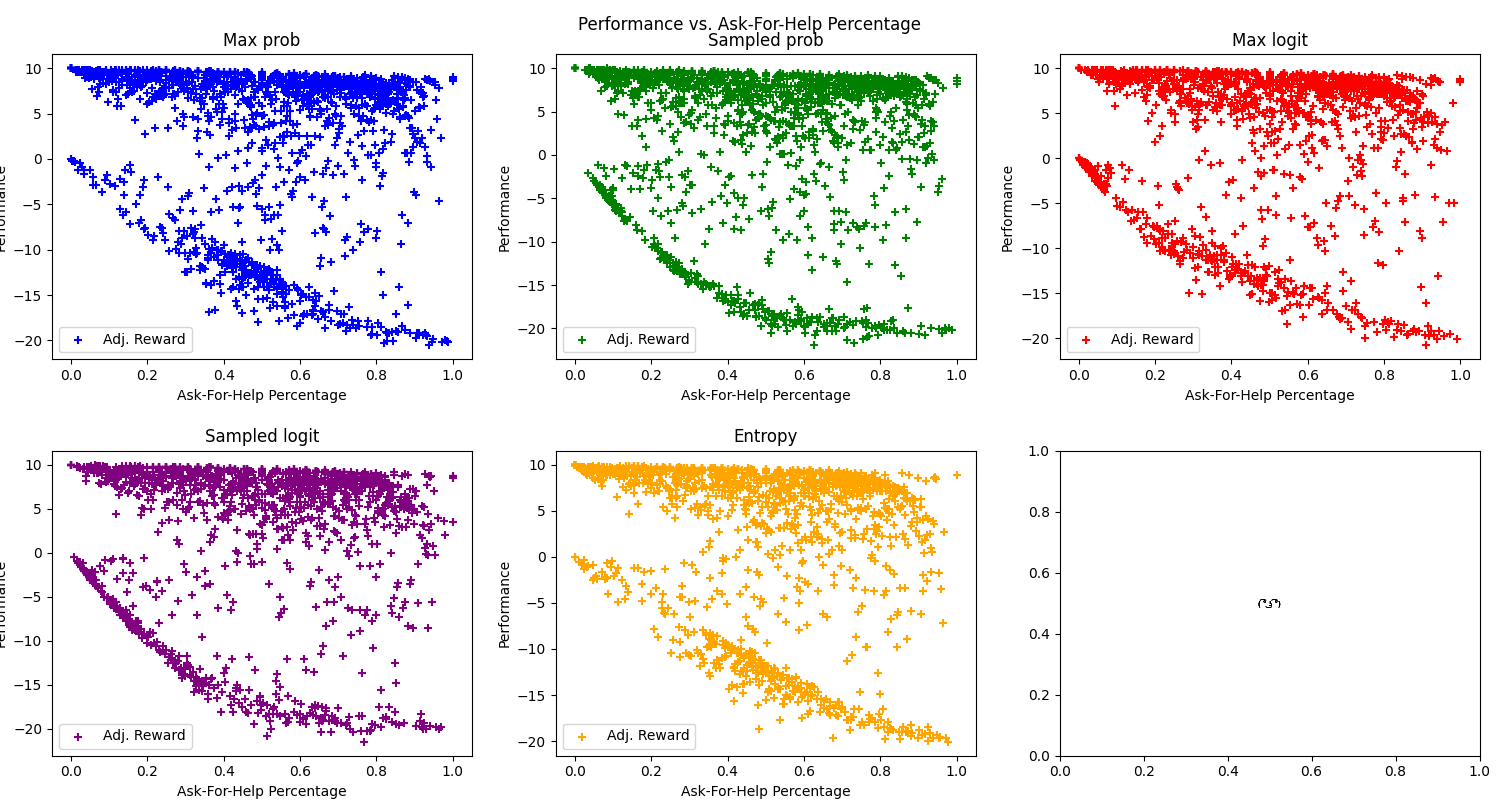
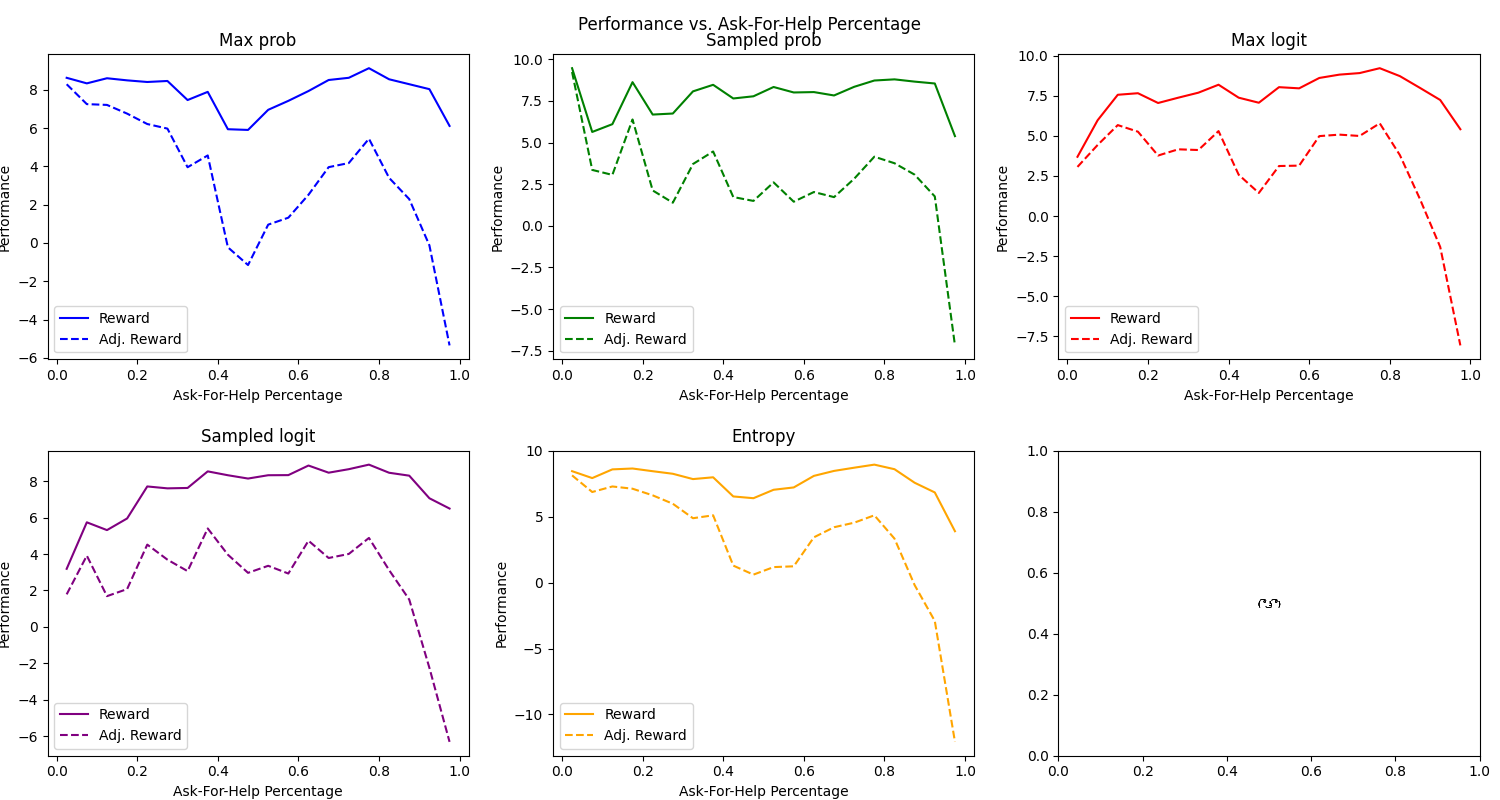
updates

diff --git a/plot_ask_for_help_plots.py b/plot_ask_for_help_plots.py
@@ -46,6 +46,7 @@ colors = {"max prob": "blue", "sampled prob": "green", "max logit": "red", "samp
 helped_logs = {"max prob": {}, "sampled prob": {}, "max logit": {}, "sampled logit": {}, "entropy": {}}
 log_dir = "logs/procgen/coinrun_aisc"
 for exp_dir in os.listdir(log_dir):
+    # CHANGE HERE #
     if exp_dir.startswith("receive") and exp_dir.endswith("unique_actions"):
         perc = int(re.search(r"(\d+)", exp_dir).group(1))
         if "ent" in exp_dir:
@@ -97,6 +98,7 @@ if PLOT_PERF_VS_PROP in args.plots:
 i = 0
 mega_mean_timestep_achieved = []
 for metric in helped_logs:
+    print("Doing metric", metric)
     rew_by_perc = []
     adj_rew_by_perc = []
     help_props_by_perc = []
@@ -171,13 +173,30 @@ for metric in helped_logs:
         flattened_help_props = np.array([help_prop for help_props in help_props_by_perc for help_prop in help_props])
         flattened_rews = np.array([rew for rews in rew_by_perc for rew in rews])
         flattened_adj_rews = np.array([adj_rew for adj_rews in adj_rew_by_perc for adj_rew in adj_rews])
-        sorted_idx = np.argsort(flattened_help_props)
-        flattened_help_props = flattened_help_props[sorted_idx]
-        flattened_rews = flattened_rews[sorted_idx]
-        flattened_adj_rews = flattened_adj_rews[sorted_idx]
+        # sorted_idx = np.argsort(flattened_help_props)
+        # flattened_help_props = flattened_help_props[sorted_idx]
+        # flattened_rews = flattened_rews[sorted_idx]
+        # flattened_adj_rews = flattened_adj_rews[sorted_idx]
         # ax.scatter(flattened_help_props, flattened_rews, color = colors[metric], label = f"Reward")
-        every = 5
-        ax.scatter(flattened_help_props[::every], flattened_adj_rews[::every], color = colors[metric], marker = "+", label = f"Adj. Reward")
+
+        # every = 5
+        # ax.scatter(flattened_help_props[::every], flattened_adj_rews[::every], color = colors[metric], marker = "+", label = f"Adj. Reward")
+
+        bucket_edges = np.linspace(0, 1, 21)
+        bucket_indices = np.digitize(flattened_help_props, bucket_edges)
+        bucket_rew_means = []
+        bucket_adj_rew_means = []
+        for k in range(1, len(bucket_edges)):
+            bucket_mask = bucket_indices == k
+            if np.any(bucket_mask):
+                bucket_rew_means.append(np.mean(flattened_rews[bucket_mask]))
+                bucket_adj_rew_means.append(np.mean(flattened_adj_rews[bucket_mask]))
+            else:
+                bucket_rew_means.append(np.nan)
+                bucket_adj_rew_means.append(np.nan)
+        bucket_centers = (bucket_edges[:-1] + bucket_edges[1:]) / 2
+        ax.plot(bucket_centers, bucket_rew_means, color = colors[metric], linestyle = "solid", label = f"Reward")
+        ax.plot(bucket_centers, bucket_adj_rew_means, color = colors[metric], linestyle = "dashed", label = f"Adj. Reward")
         ax.set_title(metric.capitalize())
         ax.set_xlabel("Ask-For-Help Percentage")
         ax.set_ylabel("Performance")
